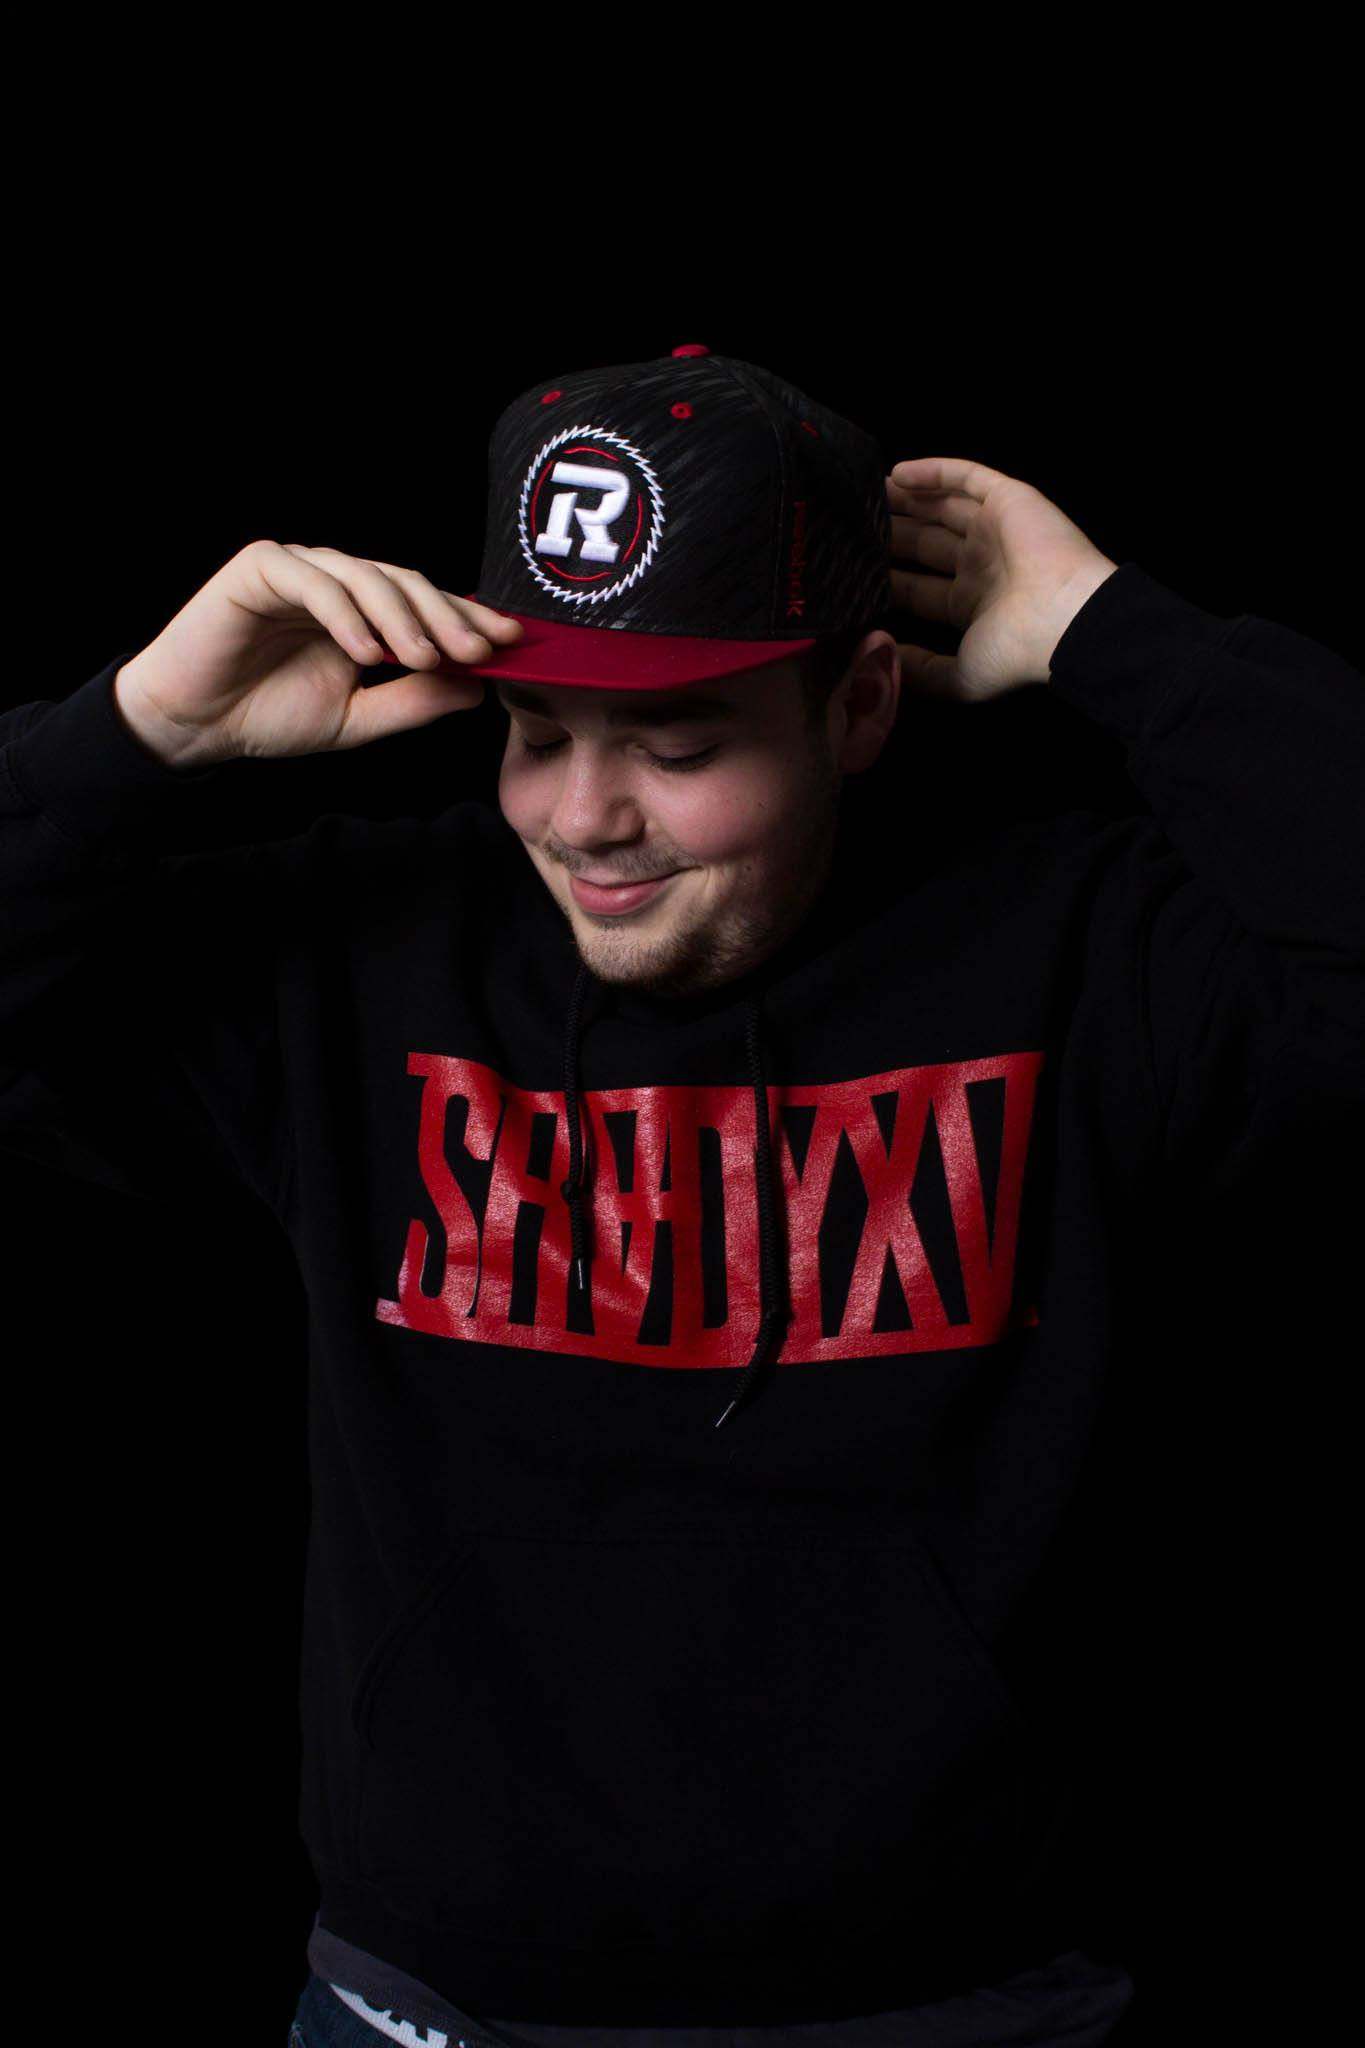
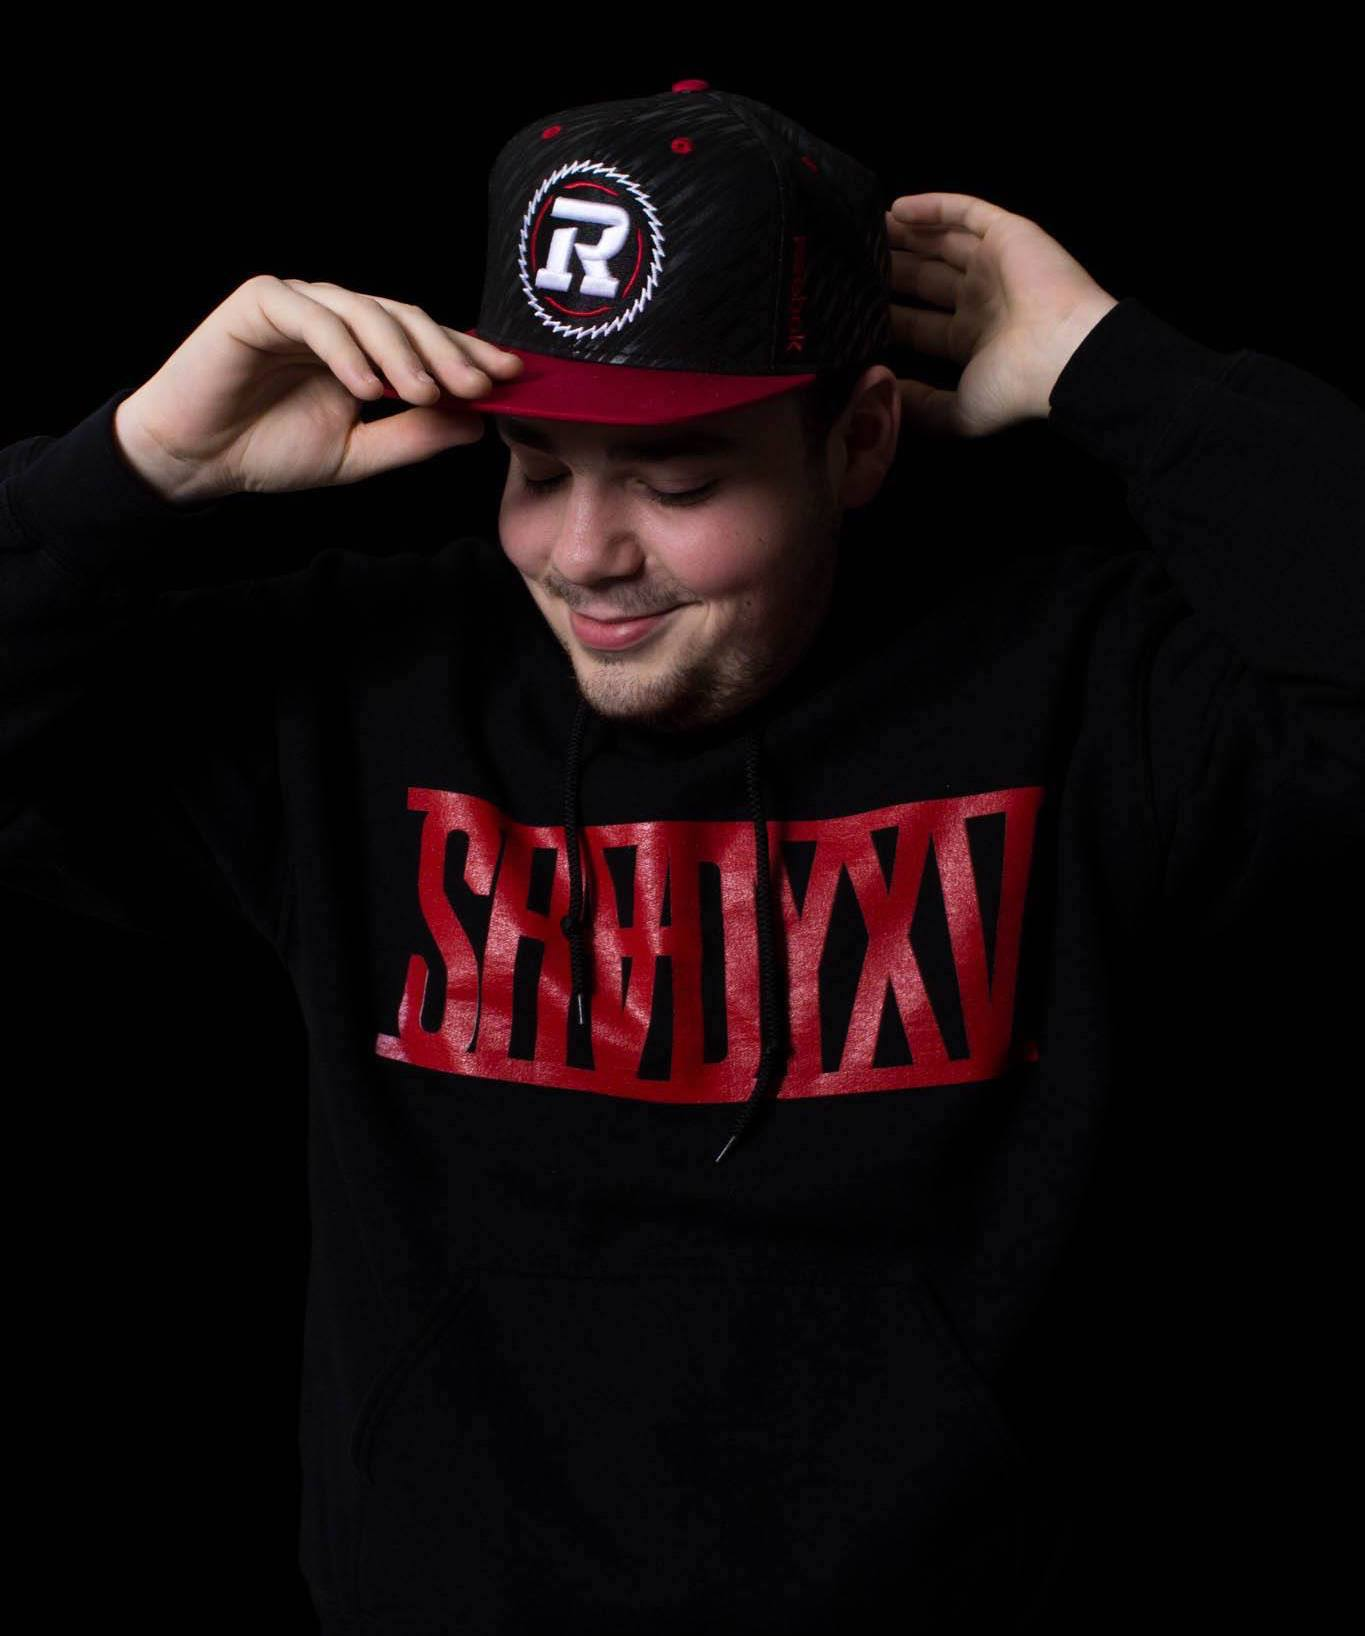
about me

Changed region(s): [[0.0308, 0.0312, 0.8308, 0.6858], [0.1846, 0.9352, 0.3692, 1.0], [0.4615, 0.9976, 0.4923, 1.0]]

diff --git a/main.html b/main.html
@@ -23,11 +23,17 @@
 
     <img src="images/logo.svg" alt="logo"/>
     <h1 class="zetta push-0 not-bold">Stefano Prosia</h1>
-    <p class="tena push-0">Graphic Designer</p>
-    <p class="kilo">Illustration & Layout Design</p>
+    <p class="tena push-0 display">Graphic Designer</p>
+    <p class="kilo display">Illustration & Layout Design</p>
 
     <h2 class="tena">About Me</h2>
-    <img class="me links img-flex xs-1-4 s-1-4 m-1 l-1-4" src="images/me.jpg" alt="Me"/>
+    <img class="me links img-flex xs-1 s-1 m-1-2 l-1-3" src="images/me.jpg" alt="Me" align="right"/>
+    <p>Ever since I was a kid, I always loved to colour and draw. But at that age you never think about doing that for the rest of your life, because what kid doesn’t like to colour and draw. But as time kept going, I started to get more interested in it.</p>
+    <p>As I got older, I would draw and people used to tell me I was great at it. Everyone who came over wanted to see my art. I never knew where I got my talent though, until I found out my grandfather painted as a hobby.</p>
+    <p>As I was getting ready to graduate, people asked me what I wanted to do with my life and I told them I wanted to draw. I wanted to design stuff and do what I love. I was always told that drawing won’t get me anywhere, and it’s only good for myself, as a hobby. I didn’t want it to be just a hobby. My grandfather told me I should do whatever it is that would make me happy and not to be like everyone else who just thinks about money and success. Because that's what he did and he regrets not doing what he's passionate about.</p>
+    <p>So I became a Graphic Designer.</p>
+
+    <h2 class="tena">Contact</h2>
 
 
 </body>

diff --git a/css/main.css b/css/main.css
@@ -42,7 +42,7 @@ a:link {
 }
 
 p {
-  color: #510c12;
+  color: #DCDCDC;
   padding-left: 10px;
 }
 
@@ -64,6 +64,12 @@ h2 {
 }
 
 .me {
-  padding-bottom: 50px;
-  padding-left: 10px;
+  padding-right: 20px;
+  padding-top: 0px;
+  padding-bottom: 0px;
+  padding-left: 20px;
+}
+
+.display {
+  color: #510c12;
 }
